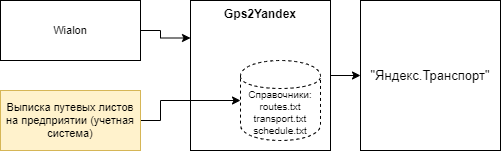
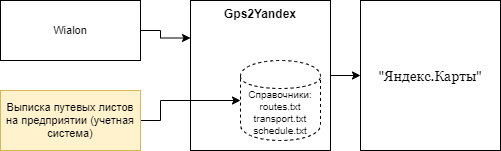
актуализация описания

Changed region(s): [[0.7186, 0.4503, 0.988, 0.5563]]

diff --git a/documents/file_format.md b/documents/file_format.md
@@ -1,7 +1,7 @@
 # Описание формата файлов - справочников
 
 1. [routes.txt](#routes.txt) - содержит таблицу перевода из номера марштура, используемого в расписании 
-(schedule.txt) в номер маршрута "Яндекс.Транспорт";
+(schedule.txt) в номер маршрута "Яндекс.Карты";
 
 2. [transport.txt](#transport.txt) - содержит таблицу перевода идентификатора транспортного средства "Wialon" 
 в идентификатор транспортного средства используемого в расписании (schedule.txt);
@@ -29,10 +29,10 @@ Number;Yandex
 |Столбец|Описание|
 |---|---|
 |Number|Номер маршрута в расписании|
-|Yandex|Номер маршрута, отправляемый в "Яндекс.Транспорт"|
+|Yandex|Номер маршрута, отправляемый в "Яндекс.Карты"|
 
 **Примечание:** *если номер маршрута в расписании соотвествует номеру, который необходимо 
-отправлять в "Яндекс.Транспорт", то запись об этом должна присутствовать.*
+отправлять в "Яндекс.Карты", то запись об этом должна присутствовать.*
 
 ## transport.txt
 
@@ -51,7 +51,7 @@ Uid;StateNumber;Type
 |---|---|
 |Uid|Уникальный идентификатор (uid) транспортного средства "Wialon"|
 |StateNumber|Уникальный идентификатор транспортного средства в расписании|
-|Type|Тип движущегося транспортного средства в соотвествии с техническими требованиями "Яндекс.Транспорт"|
+|Type|Тип движущегося транспортного средства в соотвествии с техническими требованиями "Яндекс.Карты"|
 
 Допустимые значения для столбца Type:
 * **bus** - автобус;

diff --git a/README.md b/README.md
@@ -3,14 +3,14 @@
 ## Описание
 
 Интеграционный модуль "Gps2Yandex" отвечает за прием GPS данных c "Wialon", дополняет данными о том, по какому маршруту движется 
-транспортное средство и эти сведения направляет в "Яндекс.Транспорт".
+транспортное средство и эти сведения направляет в "Яндекс.Карты".
 
 ## Архитектура решения
 
 ![](./documents/solution_scheme.png)
 
 
-* Модуль "Gps2Yandex" принимает ретрансляционный сигнал с GPS данными от "Wialon" по протоколу **Wialon IPS**. Настройки 
+* Модуль "Gps2Yandex" принимает ретрансляционный сигнал с GPS данными от "Wialon" по протоколу **Wialon IPS**. Описание настройки 
 для приема сигнала модулем находятся в [settings.md](./documents/settings.md)
 * В модуле "Gps2Yandex" используются [Справочники](./documents/file_format.md) (**routes.txt** и **transport.txt**), которые необходимы
 для связывания данных, поступающих от "Wialon" с расписанием (**schedule.txt**).
